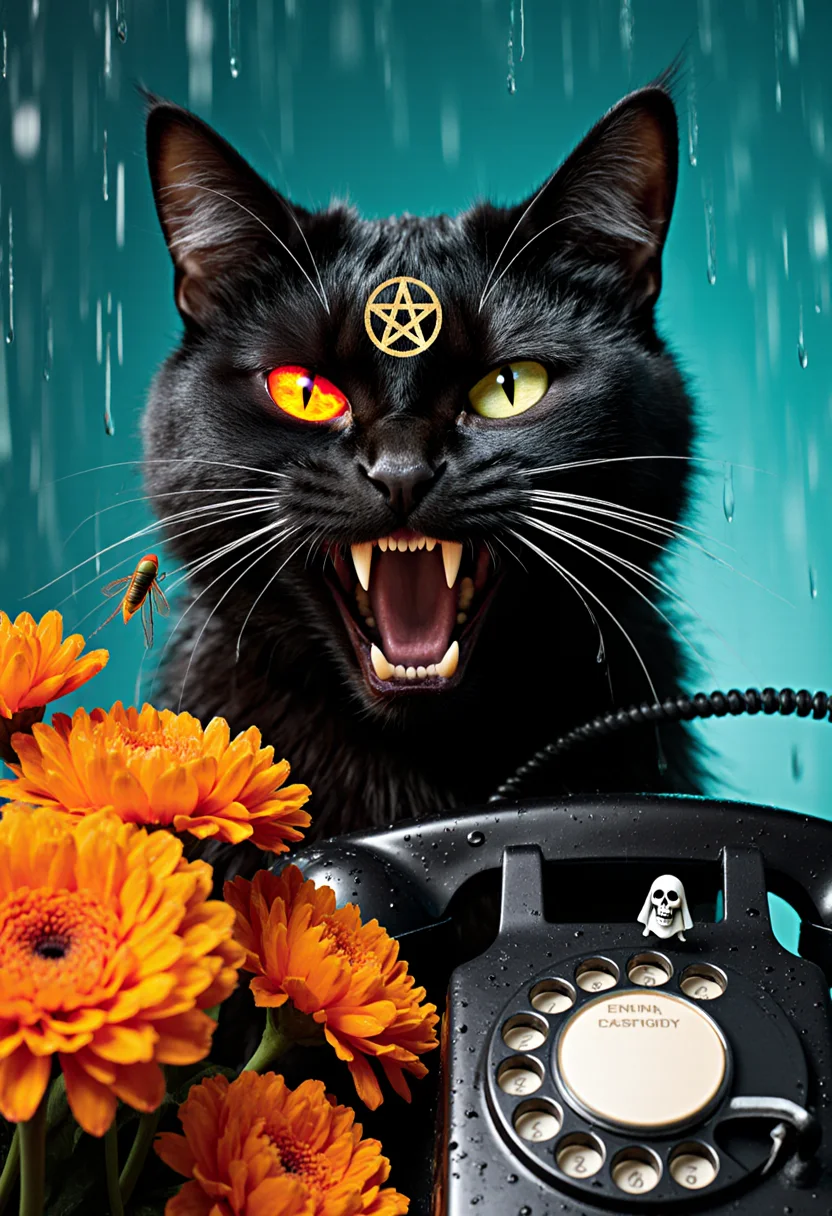
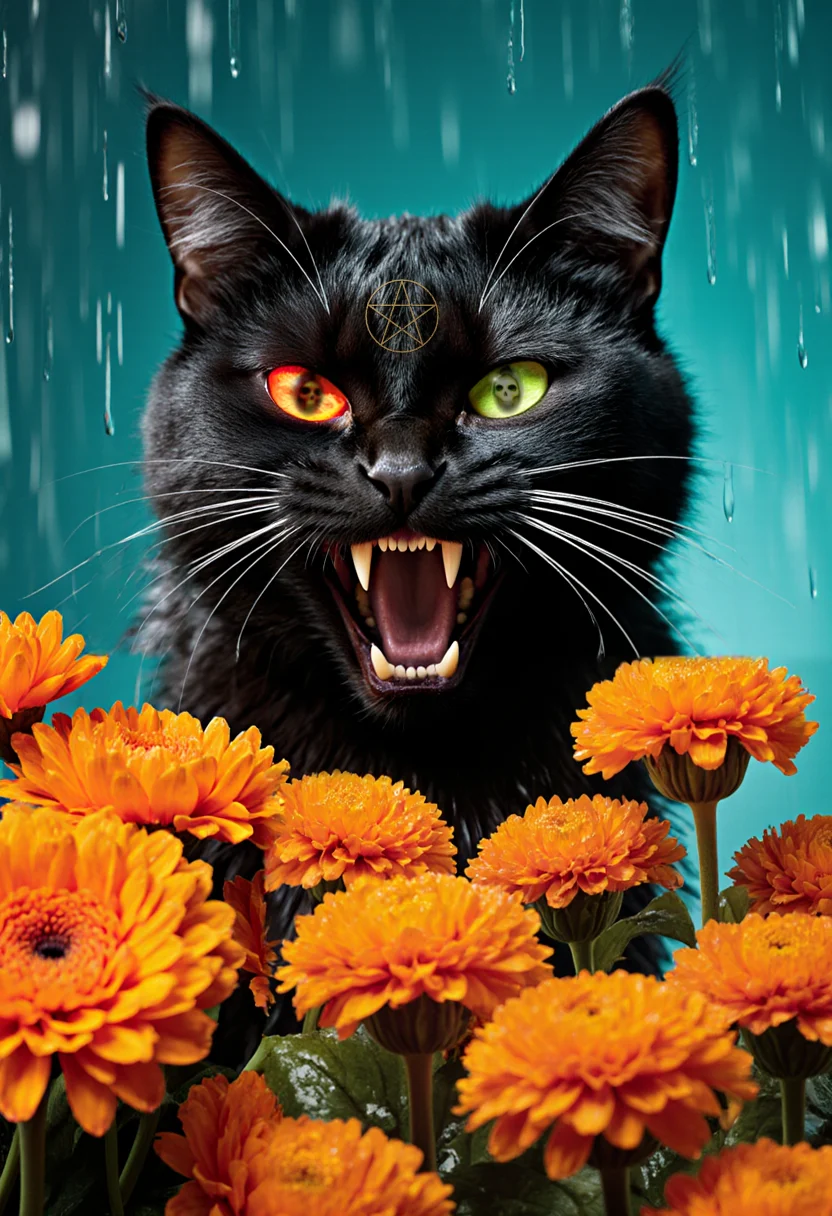
feat: enhance alt text descriptions for images in email and phone HTML files

diff --git a/phone.html b/phone.html
@@ -18,7 +18,7 @@
         data-alive='{"eyes":[[36.8,32.3,5.6,"#ff5a14"],[61.1,32.1,5.6,"#b8f040"],[48.3,26,2.6,"#e8c070"]],"pupils":[[37,32.3,3.8],[61,32.1,3.8]],"fx":["breath","rain","flies"],"flies":[50,30,30],"flySprite":"src/img/surprises/dragonfly.webp"}'>
     <div class="alive-body">
         <img src="src/img/live/call.webp" width="832" height="1216"
-             alt="Devil Cat Vasily, pentacle on his forehead and two different glowing eyes, screams into an old black telephone in the rain">
+             alt="Devil Cat Vasily, a thin golden pentacle on his forehead, a fiery orange eye and an acid green eye with hooded skulls deep in the pupils, yowls at the viewer in the rain among orange marigolds">
     </div>
 </figure>
 

diff --git a/email.html b/email.html
@@ -16,7 +16,7 @@
         data-alive='{"eyes":[[43.9,37.9,3.8,"#ff5a14"],[57,37.9,3.8,"#b8f040"],[50.7,33.7,1.8,"#e8c070"],[48.1,54.8,4.2,"#ffcf5a"]],"pupils":[[43.9,37.9,2.7],[57,37.9,2.7]],"fx":["breath","embers","smoke","lightning"],"embersFrom":[20,80],"smokeFrom":[30,70]}'>
     <div class="alive-body">
         <img src="src/img/live/email.webp" width="832" height="1216"
-             alt="Devil Cat Vasily in studded leather armour leaps out of an exploding pile of letters under white lightning">
+             alt="Devil Cat Vasily in studded leather armour, hooded skulls glowing deep in his orange and green eyes, leaps out of an exploding pile of letters under white lightning">
     </div>
 </figure>
 
